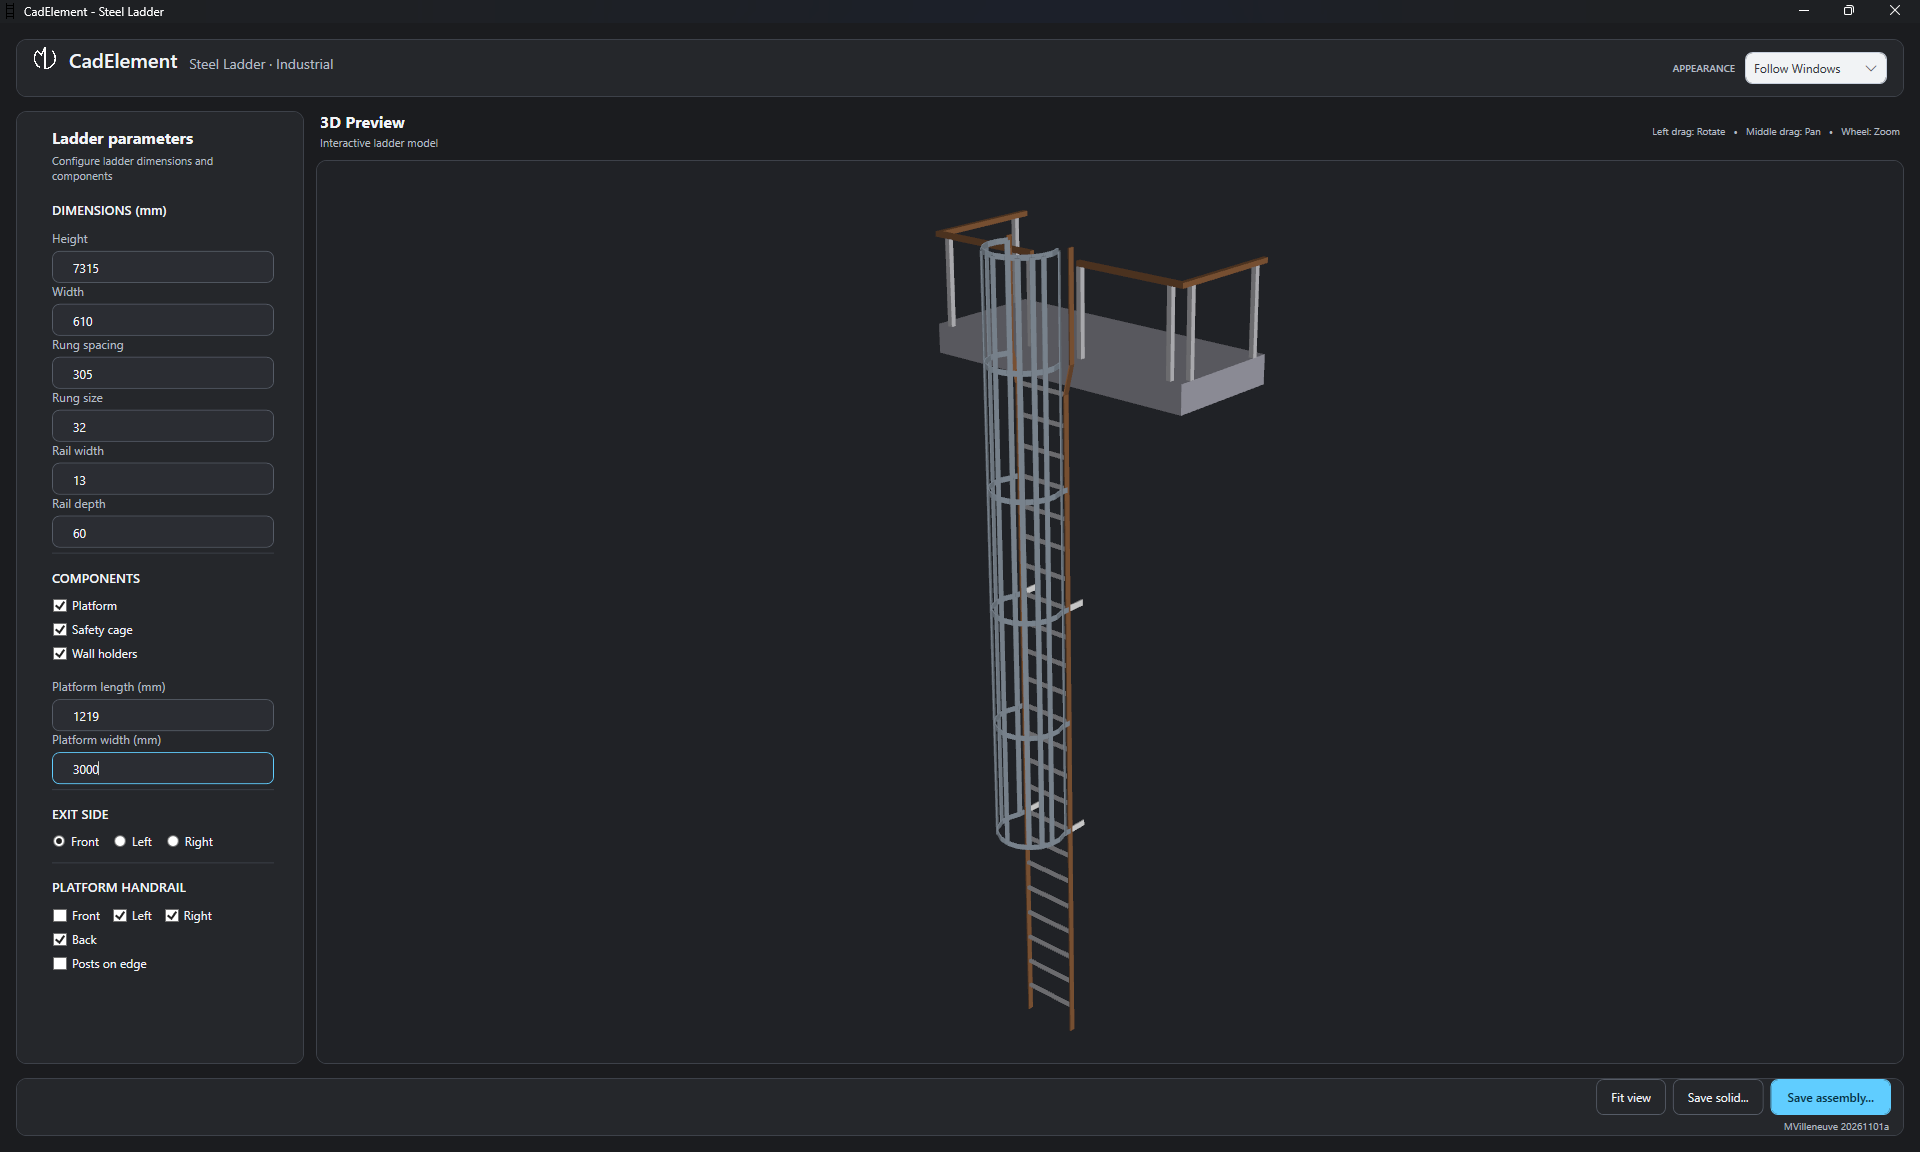
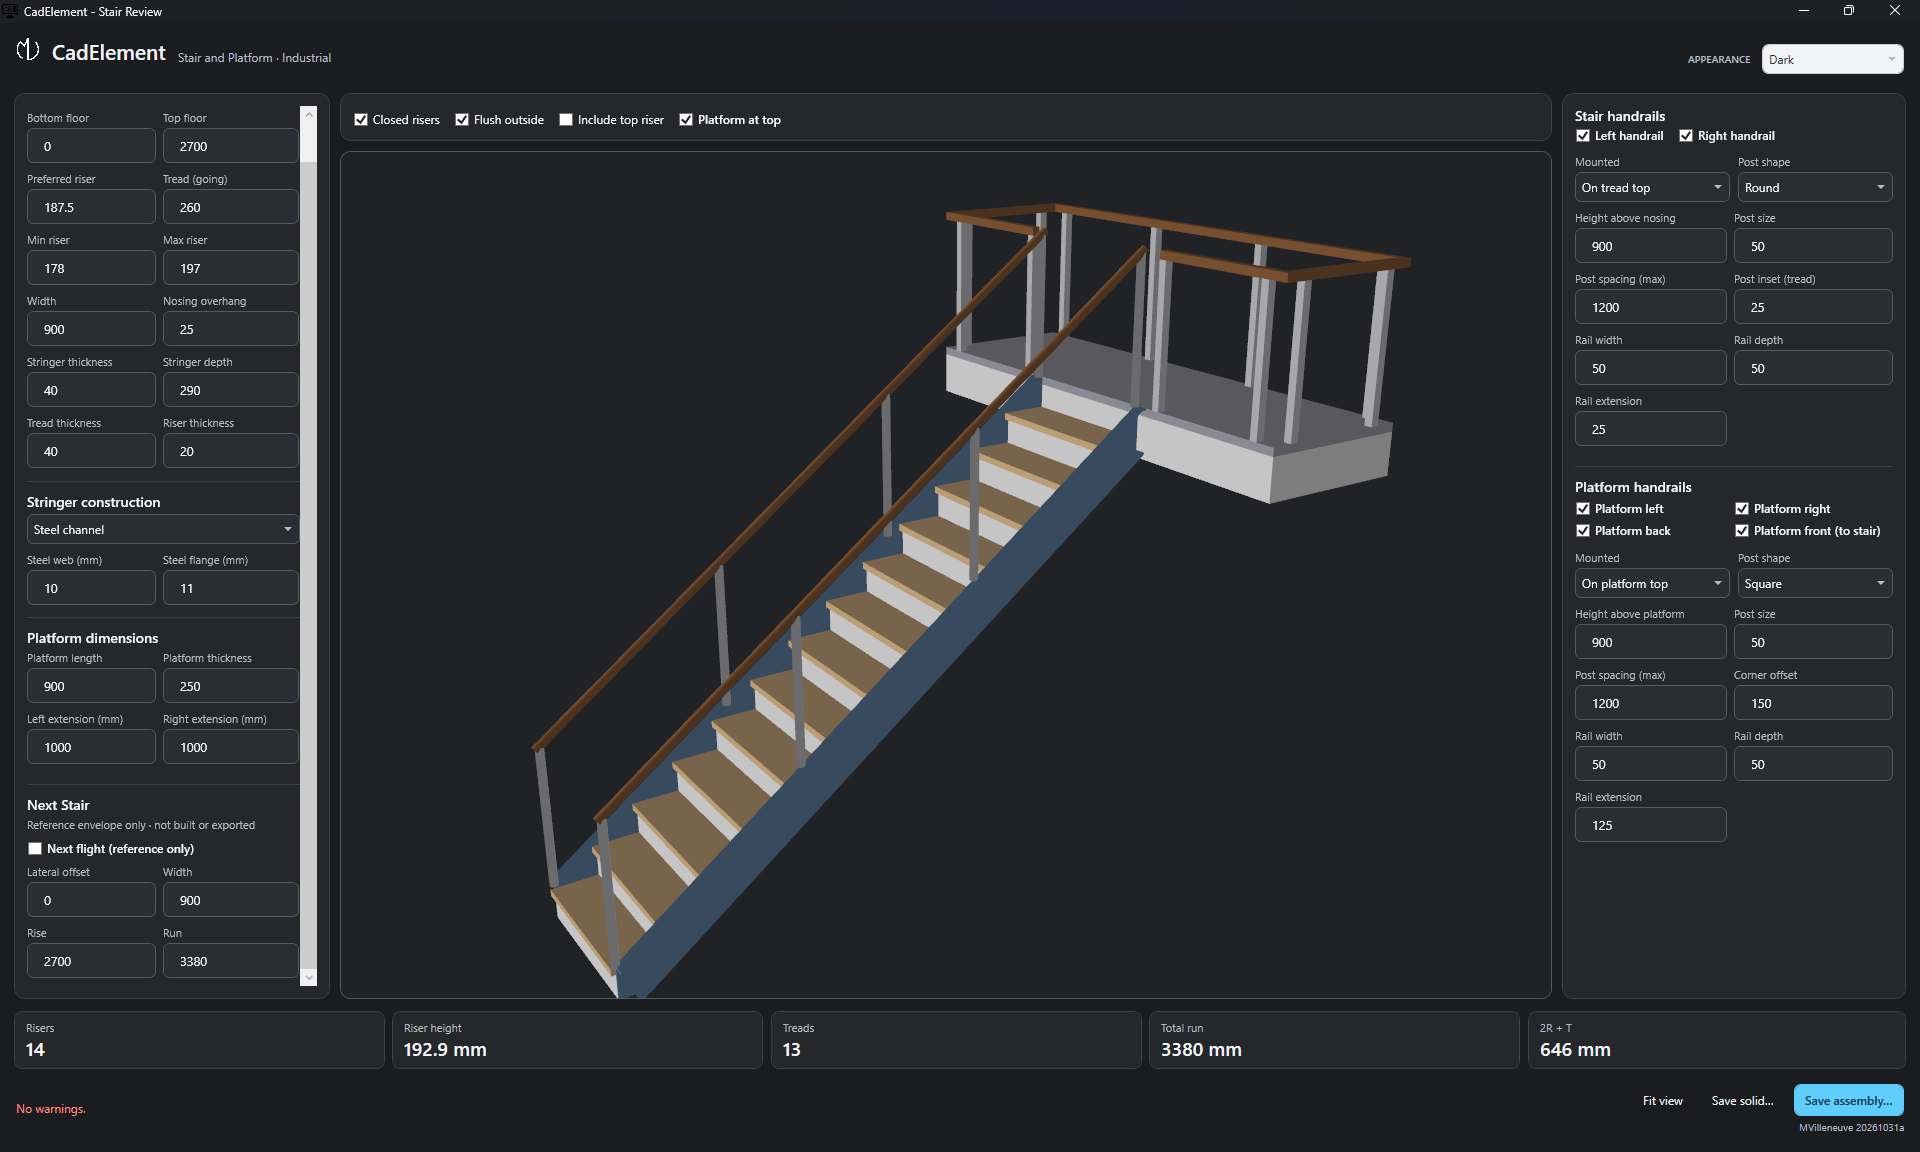
Publish CadElement.Ladders

diff --git a/projects/CadElement.Ladders/index.html b/projects/CadElement.Ladders/index.html
@@ -1,0 +1,73 @@
+<!DOCTYPE html>
+<html lang="en">
+<head>
+    <meta charset="UTF-8">
+    <meta name="viewport" content="width=device-width, initial-scale=1.0">
+    <title>CadElement.Ladders - CadElement</title>
+    <link rel="stylesheet" href="../../assets/css/style.css">
+</head>
+<body>
+    <div style="max-width: 800px; margin: 0 auto; padding: 1.5rem;">
+        <a href="../../" class="back-link">
+            <svg width="16" height="16" viewBox="0 0 24 24" fill="none" stroke="currentColor" stroke-width="2">
+                <path d="M19 12H5M12 19l-7-7 7-7"></path>
+            </svg>
+            Back to projects
+        </a>
+    </div>
+    <main style="max-width: 800px; margin: 0 auto; padding: 0 1.5rem 2rem;">
+        <!-- Project Header -->
+        <div style="margin-bottom: 2rem;">
+            <h1 style="font-size: 28px; font-weight: 500; margin-bottom: 0.5rem;">CadElement.Ladders</h1>
+            <p style="color: var(--text-dim, #888); margin-bottom: 1rem;">Draw ladders with a safety cage.</p>
+            <div style="display: flex; gap: 2rem; font-size: 14px; color: var(--text-muted, #666); margin-bottom: 1rem;">
+                <div><strong>Type:</strong> Visual Studio (C#/WPF)</div>
+                <div><strong>Date:</strong> 2026-11-23</div>
+            </div>
+        </div>
+        <!-- Carousel Section -->
+        <div style="margin: 2rem 0;">
+            <div class="carousel" id="projectCarousel" style="max-width: 500px; margin: 0 auto; aspect-ratio: 16/9;">
+                <div class="carousel-track">
+                    <div class="carousel-slide active">
+                        <img src="screenshots/1.png" alt="CadElement.Ladders Screenshot 1">
+                    </div>
+                </div>
+                <button class="carousel-btn carousel-prev">❮</button>
+                <button class="carousel-btn carousel-next">❯</button>
+                <div class="carousel-counter">1 of 1</div>
+            </div>
+        </div>
+        <!-- Overview -->
+        <div style="margin: 2rem 0;">
+            <h2 style="font-size: 18px; font-weight: 500; margin-bottom: 1rem;">Overview</h2>
+            <p style="color: var(--text-muted, #666); line-height: 1.7;">Draw ladders with a safety cage.</p>
+        </div>
+        <div style="display: grid; grid-template-columns: 1fr 1fr; gap: 2rem; margin: 2rem 0;">
+            <!-- Tech Stack -->
+            <div>
+                <h2 style="font-size: 16px; font-weight: 500; margin-bottom: 1rem;">Tech Stack</h2>
+                <div style="display: flex; flex-wrap: wrap; gap: 8px;">
+                    <span style="background: var(--tag-bg, #E6F1FB); color: var(--accent, #185FA5); padding: 6px 12px; border-radius: 6px; font-size: 13px; font-weight: 500;">C#</span>
+                    <span style="background: var(--tag-bg, #E6F1FB); color: var(--accent, #185FA5); padding: 6px 12px; border-radius: 6px; font-size: 13px; font-weight: 500;">WPF</span>
+                </div>
+            </div>
+        </div>
+        <!-- GitHub Link -->
+        <div style="margin-top: 2rem; padding-top: 2rem; border-top: 1px solid var(--line, #E0E0E0);">
+            <a href="https://github.com/michelvilleneuve/CadElement.Ladders" target="_blank" style="display: inline-flex; align-items: center; gap: 8px; padding: 12px 16px; background: var(--tag-bg, #E6F1FB); color: var(--accent, #185FA5); border: 1px solid var(--accent, #185FA5); border-radius: 6px; text-decoration: none; font-weight: 500; font-size: 14px;">
+                <svg width="16" height="16" viewBox="0 0 24 24" fill="currentColor">
+                    <path d="M12 0c-6.626 0-12 5.373-12 12 0 5.302 3.438 9.8 8.207 11.387.599.111.793-.261.793-.577v-2.234c-3.338.726-4.033-1.416-4.033-1.416-.546-1.387-1.333-1.756-1.333-1.756-1.089-.745.083-.729.083-.729 1.205.084 1.839 1.237 1.839 1.237 1.07 1.834 2.807 1.304 3.492.997.107-.775.418-1.305.762-1.604-2.665-.305-5.467-1.334-5.467-5.931 0-1.311.469-2.381 1.236-3.221-.124-.303-.535-1.524.117-3.176 0 0 1.008-.322 3.301 1.23.957-.266 1.983-.399 3.003-.404 1.02.005 2.047.138 3.006.404 2.291-1.552 3.297-1.23 3.297-1.23.653 1.653.242 2.874.118 3.176.77.84 1.235 1.911 1.235 3.221 0 4.609-2.807 5.624-5.479 5.921.43.372.823 1.102.823 2.222v 3.293c0 .319.192.694.801.576 4.765-1.589 8.199-6.086 8.199-11.386 0-6.627-5.373-12-12-12z"/>
+                </svg>
+                View on GitHub
+            </a>
+        </div>
+    </main>
+
+    <script src="../../assets/js/script.js"></script>
+    <script>
+        // Initialize carousel on this page
+        new Carousel('projectCarousel');
+    </script>
+</body>
+</html>
